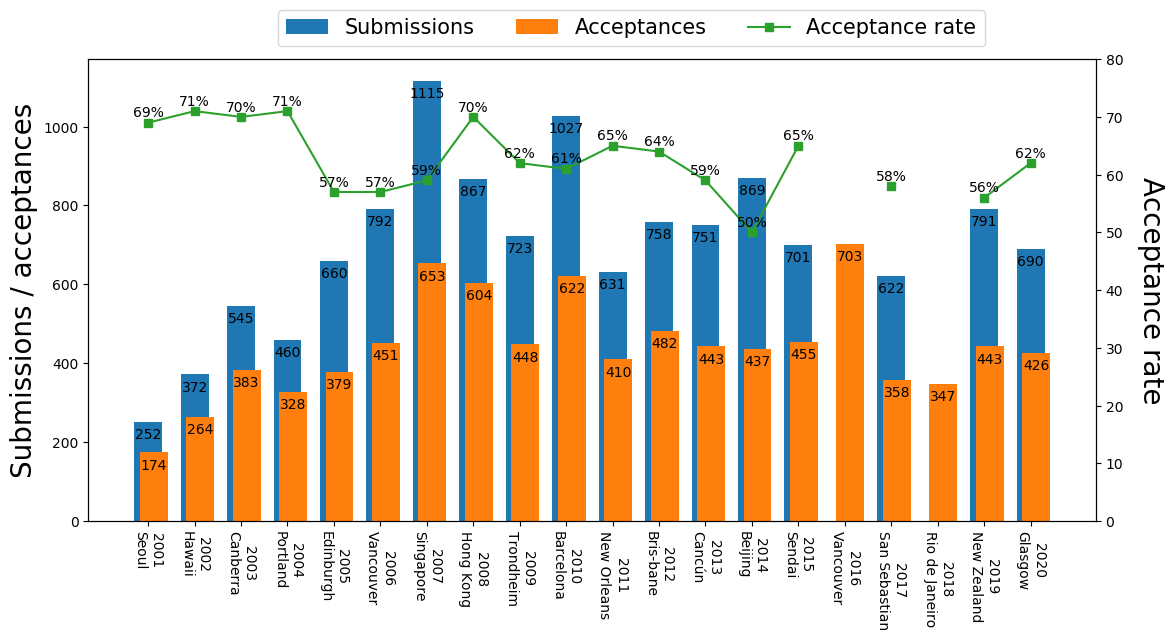
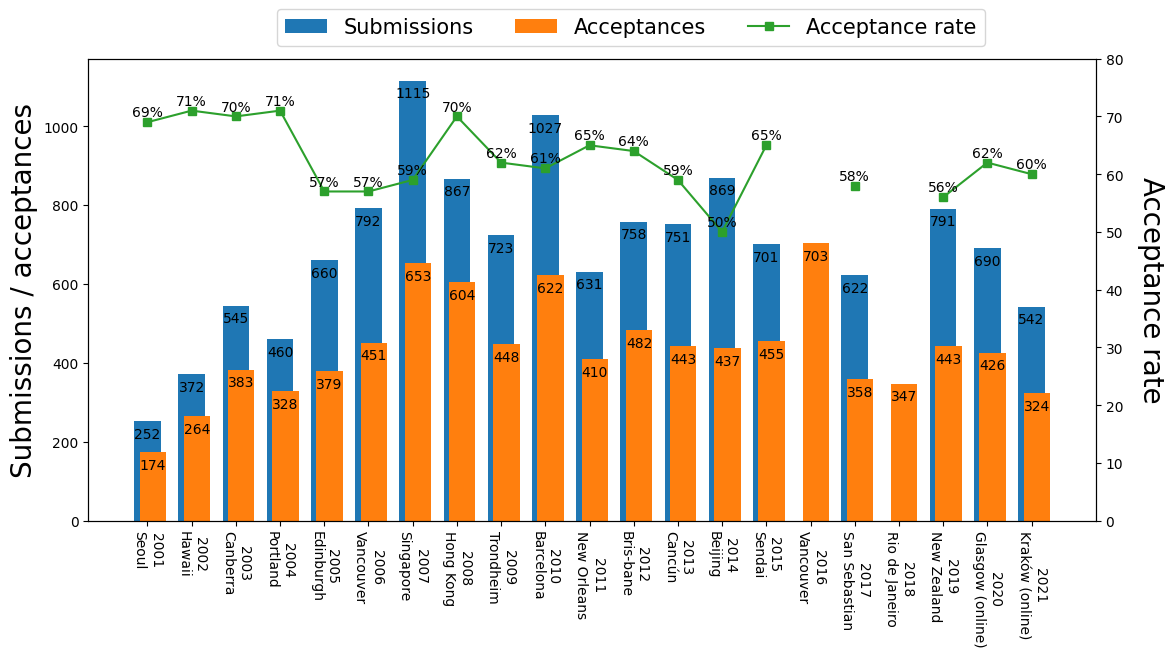
update stats of cec

diff --git a/index.md b/index.md
@@ -27,10 +27,11 @@ The date format in the following table is ``Year.Month.Day``. The submission dea
 
 |  Conference  | Venue | Start date | End date | Abstract submission | Paper submission |
 | ---- | ---- | ---- | ---- | ---- | ---- |
-| [GECCO 2021](https://gecco-2021.sigevo.org/HomePage) | Lille, France | 2021.07.10 | 2021.07.14| 2021.01.28 | 2021.02.04|
 | [FOGA 2021](https://www.fhv.at/foga2021/) | Dornbirn, Austria | 2021.09.06 | 2021.09.08  | | 2021.04.30 |
 | [Evostar 2022](http://www.evostar.org/2022/) | TBD | 2022.04.20 | 2022.04.22  | | 2021.11.01 |
 | [WCCI 2022](https://wcci2022.org/) | Padua, Italy | 2022.07.18 | 2022.07.23 |  | 2022.01.31 |
+| GECCO 2022 |  |  | |  | |
+| PPSN 2022 |  |  | |  | |
 
 ## <a id="coreranks" href="#coreranks">CORE2021 rankings</a> 
 
@@ -171,7 +172,8 @@ CEC is held as part of WCCI in even years. Statistics of WCCI/CEC2016 and WCCI/C
 | 2017 | 622        | 358        | 58%             | San Sebastian  | 
 | 2018 | Na        | 347        | Na             | Rio de Janeiro | 
 | 2019 | 791        | 443        | 56%             | New Zealand    | 
-| 2020 | 690        | 426        | 62%             | Glasgow        | 
+| 2020 | 690        | 426        | 62%             | Glasgow (online)        | 
+| 2021 | 542        | 324        | 60%             | Kraków (online)        | 
 
 ![CEC](fig/stats_cec.png) 
 
